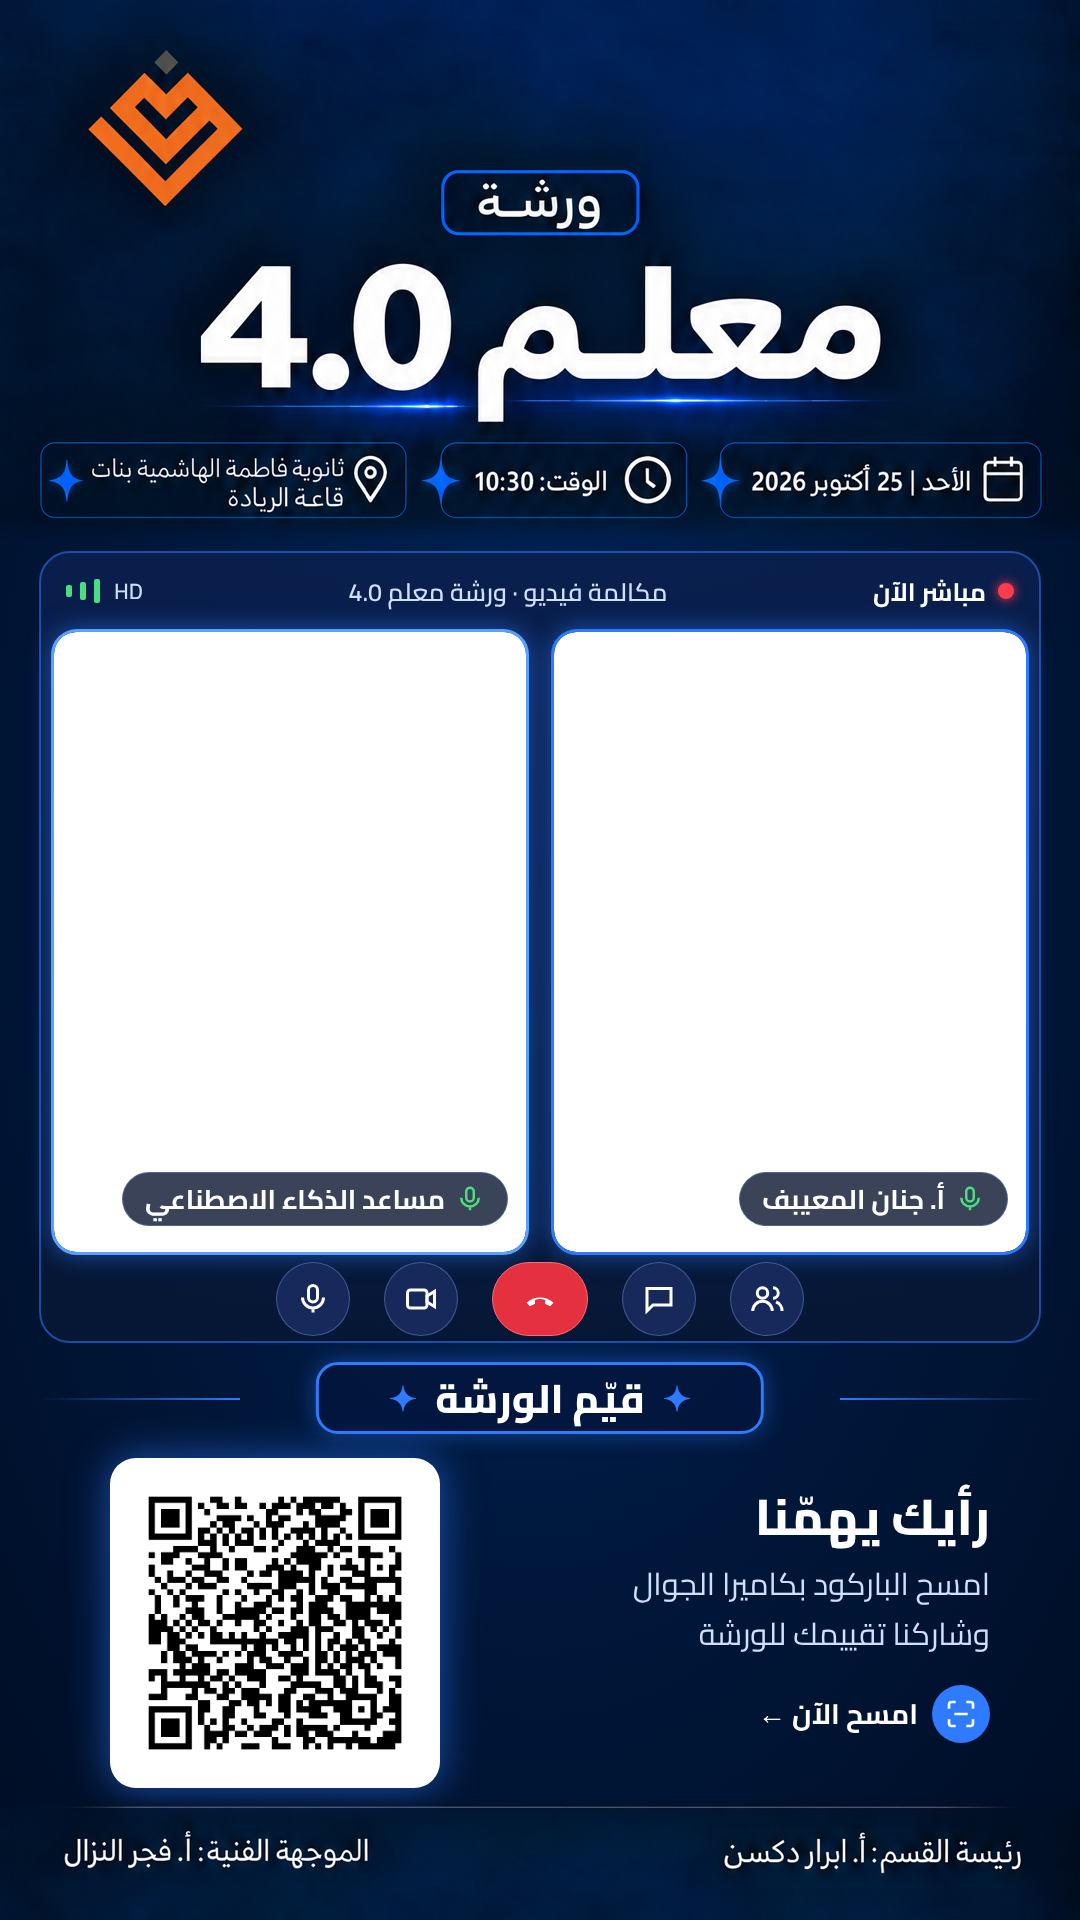
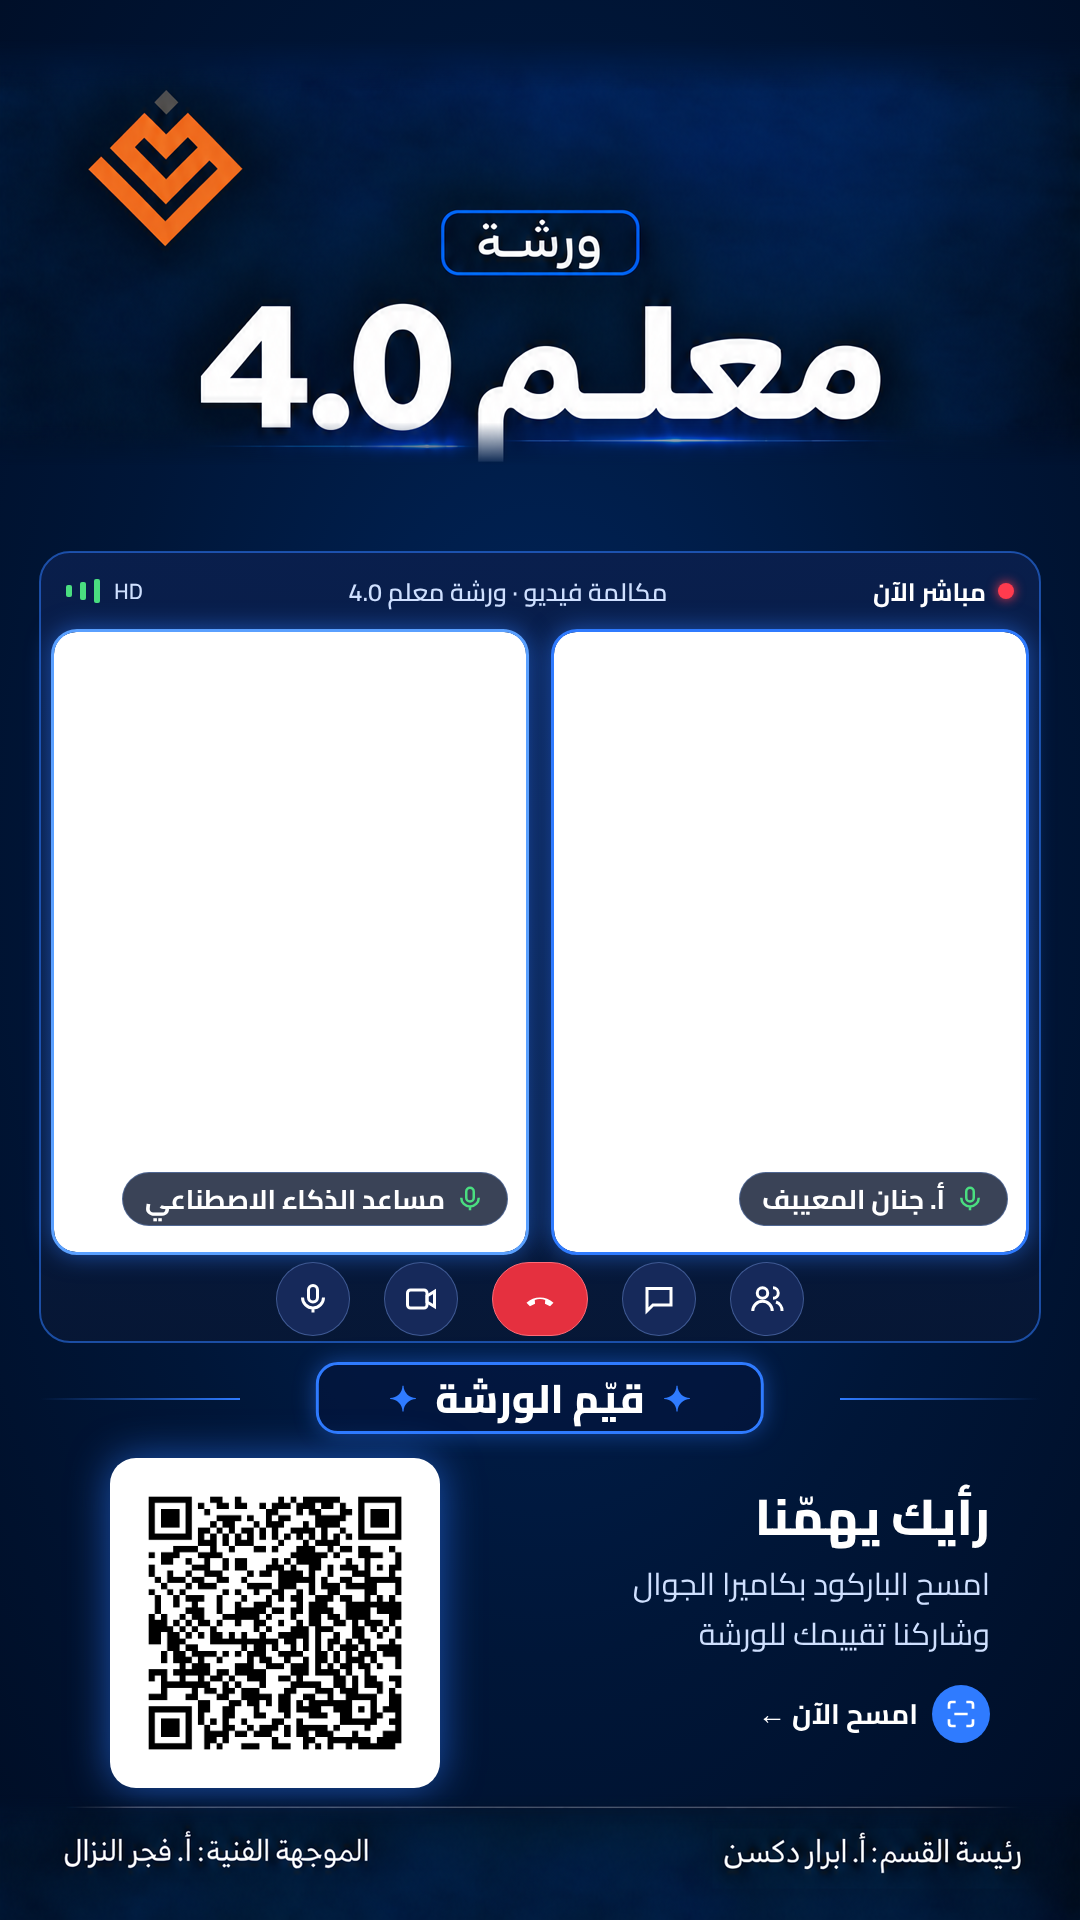
Teacher4 video call: drop date/time/venue row from header
Claude-Session: https://claude.ai/code/session_01Pz6XwjQDXxfHtJ2cX3qMX1

Changed region(s): [[0.0611, 0.0938, 0.9472, 0.2812], [0.2444, 0.0, 0.8861, 0.0312], [0.0611, 0.0312, 0.2444, 0.125]]

diff --git a/remotion/public/teacher4vc/src/frame.html b/remotion/public/teacher4vc/src/frame.html
@@ -6,8 +6,8 @@
 html,body{width:1080px;height:1920px;background:transparent;overflow:hidden;font-family:Cairo}
 .abs{position:absolute}
 #bg{left:0;top:0}
-#top{left:0;top:0;width:1080px;height:540px;
-  -webkit-mask-image:linear-gradient(#000 96%,transparent)}
+#top{left:0;top:40px;width:1080px;height:425px;object-fit:cover;object-position:top;
+  -webkit-mask-image:linear-gradient(transparent 0,#000 12%,#000 90%,transparent)}
 #foot{left:0;top:1795px;width:1080px;height:125px;
   -webkit-mask-image:linear-gradient(transparent 0,#000 25%)}
 .tilebrd{border:3px solid #2f7bff;border-radius:26px;box-shadow:0 0 24px rgba(47,123,255,.55)}
